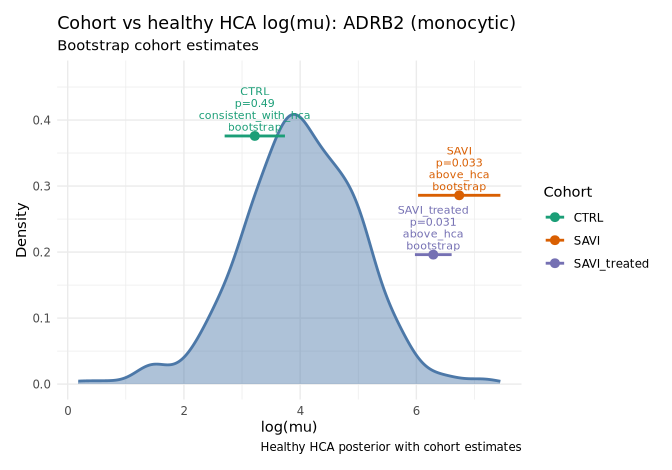
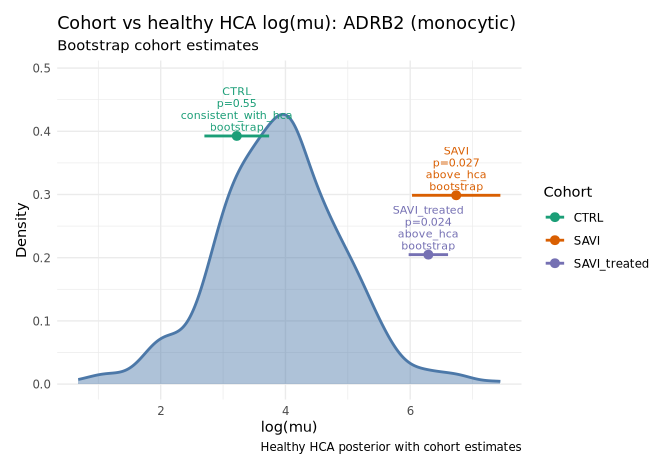
fix md plot path

diff --git a/vignettes/cohort-expression-workflow.md b/vignettes/cohort-expression-workflow.md
@@ -128,7 +128,7 @@ hca_res <- expr_draws(
 
 round(c(mean = mean(hca_res$draws), sd = sd(hca_res$draws)), 3)
 #>  mean    sd 
-#> 4.001 1.006
+#> 3.895 1.004
 ```
 
 `expr_predict()` is a convenience wrapper that also returns a density
@@ -146,7 +146,7 @@ hca_pred <- expr_predict(
 hca_pred$plot
 ```
 
-![](/scratchdata1/groups/phoenix-hpc-mangiola_laboratory/chen/posteriorHCA/vignettes/cohort-expression-workflow_files/figure-gfm/hca-predict-1.png)<!-- -->
+![](cohort-expression-workflow_files/figure-gfm/hca-predict-1.png)<!-- -->
 
 ## Test cohorts against the healthy baseline (QL)
 
@@ -164,14 +164,14 @@ test_results
 #> 1 ENSG00000169252       ADRB2 monocytic         CTRL     ql      3.322306
 #> 2 ENSG00000169252       ADRB2 monocytic         SAVI     ql      6.945427
 #> 3 ENSG00000169252       ADRB2 monocytic SAVI_treated     ql      6.290005
-#>   cohort_se hca_mean   hca_sd delta_log_mu  se_diff     t_stat        df
-#> 1 0.6154281 4.000691 1.005533   -0.6783851 1.178918 -0.5754303  72.97328
-#> 2 0.3751294 4.000691 1.005533    2.9447367 1.073228  2.7438132 176.58832
-#> 3 0.3992543 4.000691 1.005533    2.2893147 1.081896  2.1160202 153.68834
+#>   cohort_se hca_mean   hca_sd delta_log_mu  se_diff     t_stat       df
+#> 1 0.6154281 3.895135 1.004446   -0.5728294 1.177991 -0.4862764  72.7745
+#> 2 0.3751294 3.895135 1.004446    3.0502924 1.072210  2.8448654 176.1785
+#> 3 0.3992543 3.895135 1.004446    2.3948704 1.080887  2.2156539 153.3055
 #>       p_value empirical_rank           direction
-#> 1 0.566770537         0.2325 consistent_with_hca
-#> 2 0.006700025         0.9950           above_hca
-#> 3 0.035954612         0.9875           above_hca
+#> 1 0.628232338         0.2700 consistent_with_hca
+#> 2 0.004969434         0.9975           above_hca
+#> 3 0.028189044         0.9850           above_hca
 ```
 
 ## Bootstrap cohort log(μ) (optional)
@@ -197,9 +197,9 @@ boot_est
 #> 2 ENSG00000169252       ADRB2 monocytic         SAVI 5 6.737798 843.7005
 #> 3 ENSG00000169252       ADRB2 monocytic SAVI_treated 5 6.291284 539.8458
 #>          se df dispersion    method boot_q025 boot_q975 empirical_rank
-#> 1 0.5189373 NA  0.2226158 bootstrap  1.834222  3.855647         0.2050
-#> 2 0.7082203 NA  0.2226158 bootstrap  5.540832  7.974241         0.9950
-#> 3 0.3158899 NA  0.2226158 bootstrap  5.569030  6.737193         0.9875
+#> 1 0.5189373 NA  0.2226158 bootstrap  1.834222  3.855647         0.2375
+#> 2 0.7082203 NA  0.2226158 bootstrap  5.540832  7.974241         0.9925
+#> 3 0.3158899 NA  0.2226158 bootstrap  5.569030  6.737193         0.9850
 
 boot_test <- welch_t_test_cohort_hca(
   cohort_est = boot_est,
@@ -210,14 +210,14 @@ boot_test
 #> 1 ENSG00000169252       ADRB2 monocytic         CTRL bootstrap      3.219623
 #> 2 ENSG00000169252       ADRB2 monocytic         SAVI bootstrap      6.737798
 #> 3 ENSG00000169252       ADRB2 monocytic SAVI_treated bootstrap      6.291284
-#>   cohort_se hca_mean   hca_sd delta_log_mu  se_diff     t_stat        df
-#> 1 0.5189373 4.000691 1.005533   -0.7810673 1.131544 -0.6902669 111.91299
-#> 2 0.7082203 4.000691 1.005533    2.7371068 1.229907  2.2254579  34.95704
-#> 3 0.3158899 4.000691 1.005533    2.2905929 1.053984  2.1732710 244.29445
+#>   cohort_se hca_mean   hca_sd delta_log_mu  se_diff    t_stat        df
+#> 1 0.5189373 3.895135 1.004446   -0.6755116 1.130578 -0.597492 111.61575
+#> 2 0.7082203 3.895135 1.004446    2.8426626 1.229019  2.312953  34.86205
+#> 3 0.3158899 3.895135 1.004446    2.3961486 1.052947  2.275659 243.86857
 #>      p_value empirical_rank           direction
-#> 1 0.49145543         0.2050 consistent_with_hca
-#> 2 0.03259825         0.9950           above_hca
-#> 3 0.03072111         0.9875           above_hca
+#> 1 0.55138919         0.2375 consistent_with_hca
+#> 2 0.02674884         0.9925           above_hca
+#> 3 0.02373455         0.9850           above_hca
 ```
 
 ## Visualise results
@@ -233,7 +233,7 @@ plot_hca_draws(
 )
 ```
 
-![](/scratchdata1/groups/phoenix-hpc-mangiola_laboratory/chen/posteriorHCA/vignettes/cohort-expression-workflow_files/figure-gfm/plot-hca-1.png)<!-- -->
+![](cohort-expression-workflow_files/figure-gfm/plot-hca-1.png)<!-- -->
 
 ``` r
 plot_cohort_vs_hca(
@@ -244,7 +244,7 @@ plot_cohort_vs_hca(
 )
 ```
 
-![](/scratchdata1/groups/phoenix-hpc-mangiola_laboratory/chen/posteriorHCA/vignettes/cohort-expression-workflow_files/figure-gfm/plot-cohort-ql-1.png)<!-- -->
+![](cohort-expression-workflow_files/figure-gfm/plot-cohort-ql-1.png)<!-- -->
 
 ``` r
 plot_cohort_vs_hca(
@@ -255,7 +255,7 @@ plot_cohort_vs_hca(
 )
 ```
 
-![](/scratchdata1/groups/phoenix-hpc-mangiola_laboratory/chen/posteriorHCA/vignettes/cohort-expression-workflow_files/figure-gfm/plot-cohort-boot-1.png)<!-- -->
+![](cohort-expression-workflow_files/figure-gfm/plot-cohort-boot-1.png)<!-- -->
 
 You can also pass `cohort_est = est` or `cohort_est = boot_est` directly
 to `plot_cohort_vs_hca()` when test statistics are not needed on the
@@ -286,7 +286,7 @@ sessionInfo()
 #> 
 #> other attached packages:
 #> [1] ggplot2_4.0.3      Seurat_5.5.0       SeuratObject_5.4.0 sp_2.2-1          
-#> [5] posteriorHCA_0.1.0 testthat_3.3.2     rmarkdown_2.31    
+#> [5] posteriorHCA_0.2.0 testthat_3.3.2     rmarkdown_2.31    
 #> 
 #> loaded via a namespace (and not attached):
 #>   [1] fs_2.1.0                    matrixStats_1.5.0          
